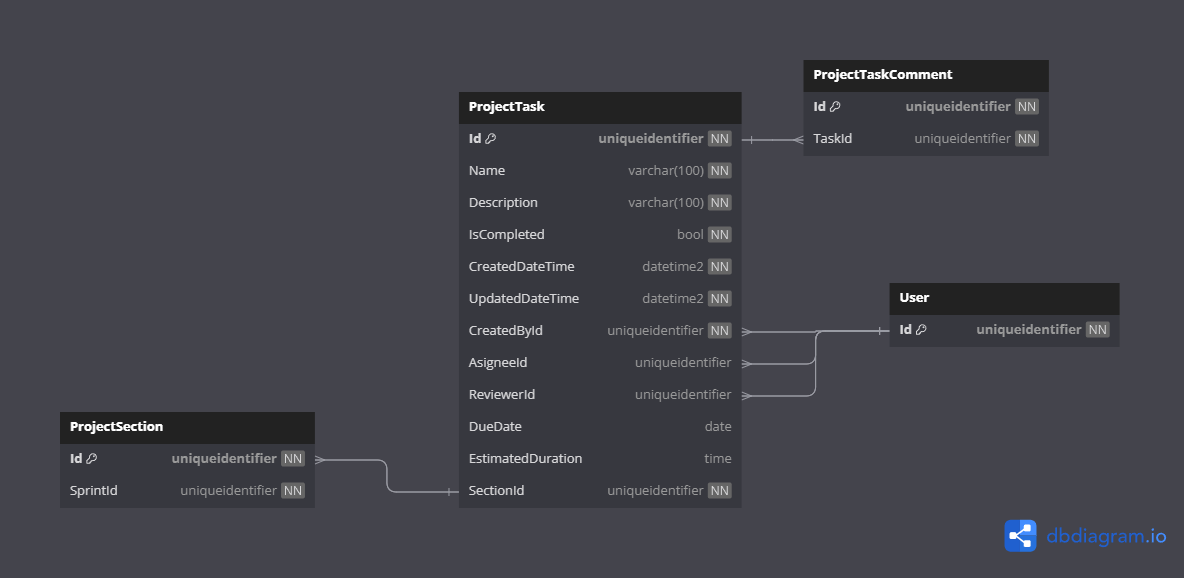
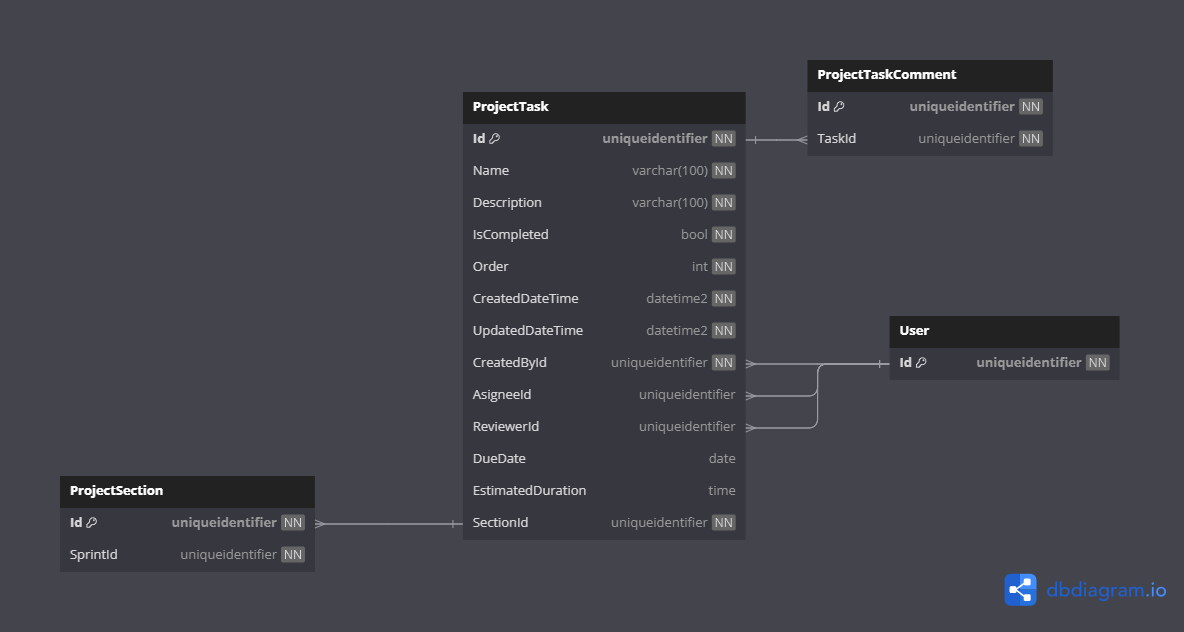
#43 Domain - Project Section Entity and Project Task Aggregate now Possess an Order property for custom sorting

diff --git a/src/ConsiliumTempus.Domain/ProjectTask/ProjectTaskAggregate.cs b/src/ConsiliumTempus.Domain/ProjectTask/ProjectTaskAggregate.cs
@@ -20,6 +20,7 @@ public sealed class ProjectTaskAggregate : AggregateRoot<ProjectTaskId, Guid>, I
         string name,
         string description,
         bool isCompleted,
+        int order,
         UserAggregate createdBy,
         ProjectSection section,
         DateTime createdDateTime,
@@ -28,6 +29,7 @@ public sealed class ProjectTaskAggregate : AggregateRoot<ProjectTaskId, Guid>, I
         Name = name;
         Description = description;
         IsCompleted = isCompleted;
+        Order = order;
         CreatedBy = createdBy;
         Section = section;
         CreatedDateTime = createdDateTime;
@@ -39,6 +41,7 @@ public sealed class ProjectTaskAggregate : AggregateRoot<ProjectTaskId, Guid>, I
     public string Name { get; private set; } = string.Empty;
     public string Description { get; private set; } = string.Empty;
     public bool IsCompleted { get; private set; }
+    public int Order { get; private set; }
     public UserAggregate CreatedBy { get; init; } = default!;
     public DateTime CreatedDateTime { get; init; }
     public DateTime UpdatedDateTime { get; private set; }
@@ -52,6 +55,7 @@ public sealed class ProjectTaskAggregate : AggregateRoot<ProjectTaskId, Guid>, I
     public static ProjectTaskAggregate Create(
         string name,
         string description,
+        int order,
         UserAggregate createdBy,
         ProjectSection section)
     {
@@ -60,6 +64,7 @@ public sealed class ProjectTaskAggregate : AggregateRoot<ProjectTaskId, Guid>, I
             name,
             description,
             false,
+            order,
             createdBy,
             section,
             DateTime.UtcNow,

diff --git a/src/ConsiliumTempus.Infrastructure/Migrations/20240219205304_InitialCreate.cs b/src/ConsiliumTempus.Infrastructure/Migrations/20240219205304_InitialCreate.cs
@@ -182,6 +182,7 @@ namespace ConsiliumTempus.Infrastructure.Migrations
                 {
                     Id = table.Column<Guid>(type: "uniqueidentifier", nullable: false),
                     Name = table.Column<string>(type: "nvarchar(100)", maxLength: 100, nullable: false),
+                    Order = table.Column<int>(type: "int", nullable: false),
                     SprintId = table.Column<Guid>(type: "uniqueidentifier", nullable: false)
                 },
                 constraints: table =>
@@ -203,6 +204,7 @@ namespace ConsiliumTempus.Infrastructure.Migrations
                     Name = table.Column<string>(type: "nvarchar(100)", maxLength: 100, nullable: false),
                     Description = table.Column<string>(type: "nvarchar(1000)", maxLength: 1000, nullable: false),
                     IsCompleted = table.Column<bool>(type: "bit", nullable: false),
+                    Order = table.Column<int>(type: "int", nullable: false),
                     CreatedById = table.Column<Guid>(type: "uniqueidentifier", nullable: false),
                     CreatedDateTime = table.Column<DateTime>(type: "datetime2", nullable: false),
                     UpdatedDateTime = table.Column<DateTime>(type: "datetime2", nullable: false),

diff --git a/src/ConsiliumTempus.Infrastructure/Migrations/20240219205304_InitialCreate.Designer.cs b/src/ConsiliumTempus.Infrastructure/Migrations/20240219205304_InitialCreate.Designer.cs
@@ -12,7 +12,7 @@ using Microsoft.EntityFrameworkCore.Storage.ValueConversion;
 namespace ConsiliumTempus.Infrastructure.Migrations
 {
     [DbContext(typeof(ConsiliumTempusDbContext))]
-    [Migration("20240219100044_InitialCreate")]
+    [Migration("20240219205304_InitialCreate")]
     partial class InitialCreate
     {
         /// <inheritdoc />
@@ -269,6 +269,9 @@ namespace ConsiliumTempus.Infrastructure.Migrations
                         .HasMaxLength(100)
                         .HasColumnType("nvarchar(100)");
 
+                    b.Property<int>("Order")
+                        .HasColumnType("int");
+
                     b.Property<Guid>("SprintId")
                         .HasColumnType("uniqueidentifier");
 
@@ -380,6 +383,9 @@ namespace ConsiliumTempus.Infrastructure.Migrations
                         .IsRequired()
                         .HasMaxLength(100)
                         .HasColumnType("nvarchar(100)");
+
+                    b.Property<int>("Order")
+                        .HasColumnType("int");
 
                     b.Property<Guid?>("ReviewerId")
                         .HasColumnType("uniqueidentifier");

diff --git a/src/ConsiliumTempus.Domain/Project/Entities/ProjectSection.cs b/src/ConsiliumTempus.Domain/Project/Entities/ProjectSection.cs
@@ -15,25 +15,30 @@ public sealed class ProjectSection : Entity<ProjectSectionId>
     private ProjectSection(
         ProjectSectionId id,
         string name,
+        int order,
         ProjectSprint sprint) : base(id)
     {
         Name = name;
+        Order = order;
         Sprint = sprint;
     }
 
     private readonly List<ProjectTaskAggregate> _tasks = [];
 
     public string Name { get; private set; } = string.Empty;
+    public int Order { get; private set; }
     public ProjectSprint Sprint { get; init; } = default!;
     public IReadOnlyList<ProjectTaskAggregate> Tasks => _tasks.AsReadOnly();
 
     public static ProjectSection Create(
         string name,
+        int order,
         ProjectSprint sprint)
     {
         return new ProjectSection(
             ProjectSectionId.CreateUnique(), 
             name, 
+            order,
             sprint);
     }
 

diff --git a/src/ConsiliumTempus.Application/Project/Events/ProjectCreatedHandler.cs b/src/ConsiliumTempus.Application/Project/Events/ProjectCreatedHandler.cs
@@ -13,17 +13,20 @@ public sealed class ProjectCreatedHandler : INotificationHandler<ProjectCreated>
         var sprint = ProjectSprint.Create(Constants.ProjectSprint.Name, notification.Project);
         notification.Project.AddSprint(sprint);
 
+        var count = 0;
         Constants.ProjectSection.Names
-            .Select(name => ProjectSection.Create(name, sprint))
+            .Select(name => ProjectSection.Create(name, count++, sprint))
             .ToList()
             .ForEach(section => sprint.AddSection(section));
 
+        count = 0;
         var section = sprint.Sections[0];
         Constants.ProjectTask.Names
             .ToList()
             .ForEach(name => section.AddTask(ProjectTaskAggregate.Create(
                 name, 
                 string.Empty, 
+                count++,
                 notification.User,
                 section)));
 

diff --git a/src/ConsiliumTempus.Infrastructure/Migrations/ConsiliumTempusDbContextModelSnapshot.cs b/src/ConsiliumTempus.Infrastructure/Migrations/ConsiliumTempusDbContextModelSnapshot.cs
@@ -266,6 +266,9 @@ namespace ConsiliumTempus.Infrastructure.Migrations
                         .HasMaxLength(100)
                         .HasColumnType("nvarchar(100)");
 
+                    b.Property<int>("Order")
+                        .HasColumnType("int");
+
                     b.Property<Guid>("SprintId")
                         .HasColumnType("uniqueidentifier");
 
@@ -377,6 +380,9 @@ namespace ConsiliumTempus.Infrastructure.Migrations
                         .IsRequired()
                         .HasMaxLength(100)
                         .HasColumnType("nvarchar(100)");
+
+                    b.Property<int>("Order")
+                        .HasColumnType("int");
 
                     b.Property<Guid?>("ReviewerId")
                         .HasColumnType("uniqueidentifier");

diff --git a/docs/domain/aggregates/Aggregate.ProjectTask.md b/docs/domain/aggregates/Aggregate.ProjectTask.md
@@ -19,6 +19,7 @@ class ProjectTask
   "description": "This is the description of the task",
   "isCompleted": false,
   "createdBy": {},
+  "order": 1,
   "createdDateTime": "2020-01-01T00:00:00.0000000Z",
   "updatedDateTime": "2020-01-01T00:00:00.0000000Z",
   "assignee": {},

diff --git a/docs/domain/entities/project/Entity.ProjectSection.md b/docs/domain/entities/project/Entity.ProjectSection.md
@@ -16,6 +16,7 @@ class ProjectSection
 {
   "id": { "value": "00000000-0000-0000-0000-000000000000" },
   "name": "Section 1",
+  "order": 0,
   "sprint": {},
   "tasks": [{}]
 }
